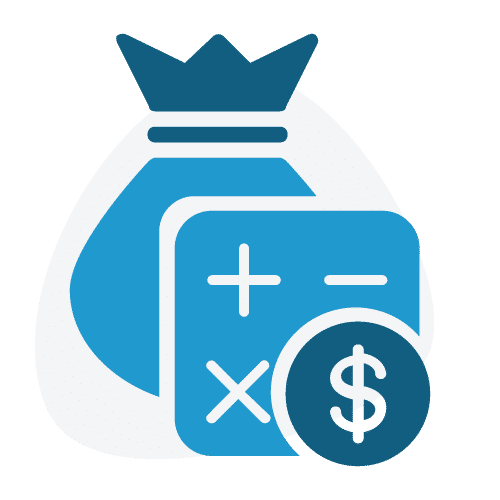
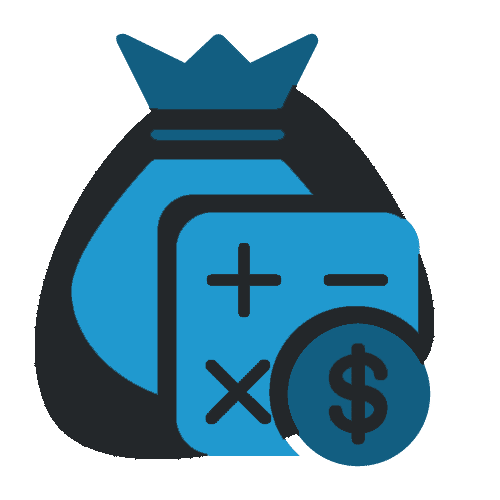
[UI BIG UPDATE] Dashboard

diff --git a/3_Solution/CleverClient/startup.cpp b/3_Solution/CleverClient/startup.cpp
@@ -11,7 +11,7 @@ Startup::Startup(QWidget *parent)
 	this->currPAT = "";
 	this->currEmail = "";
 	ui.setupUi(this);
-	this->setWindowIcon(QIcon("Images/img3.jpg"));
+	this->setWindowIcon(QIcon("Images/money.png"));
 	//m_dshptr = new Dashboard(ui.stackedWidget);
 	connect(ui.countryComboBox, SIGNAL(activated(int)), this, SLOT(on_countrySelected(int)));
 	connect(ui.phoneLineEdit, SIGNAL(textEdited(QString)), this, SLOT(on_phoneNumberEdited()));
